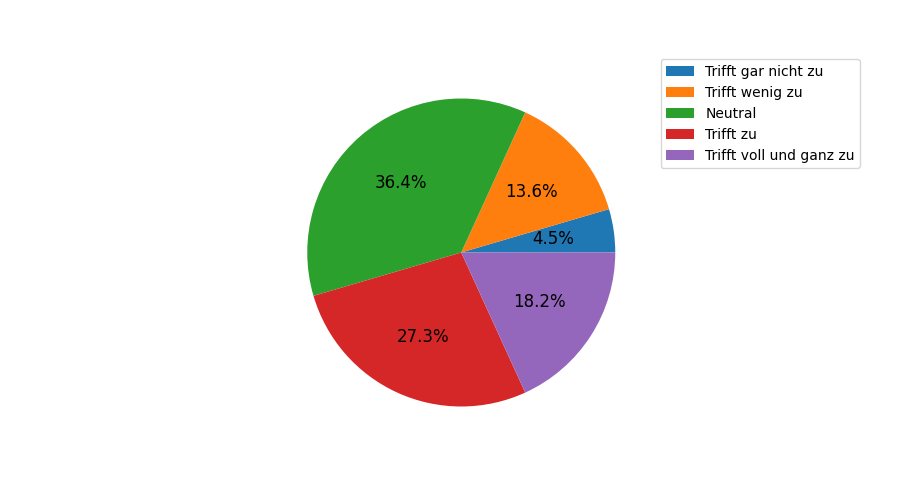
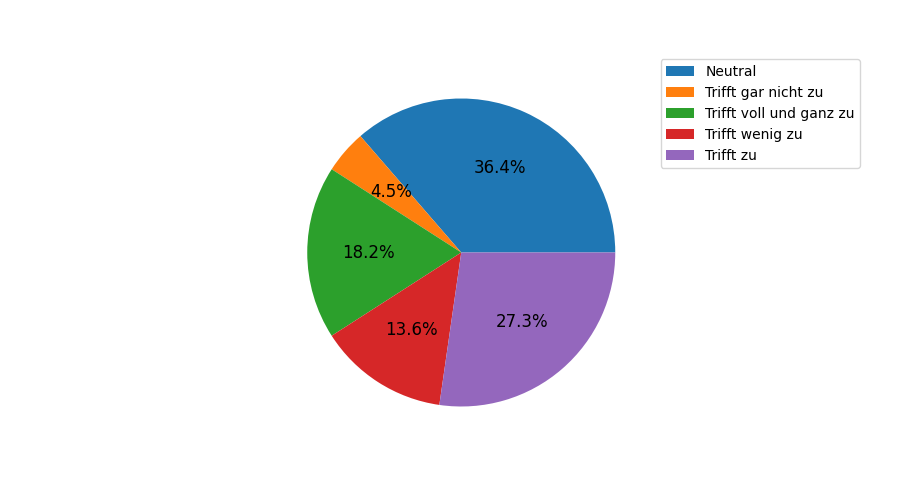
cleanup

Changed region(s): [[0.3422, 0.18, 0.6844, 0.84], [0.7778, 0.12, 0.9644, 0.33], [0.3733, 0.48, 0.4356, 0.51]]

diff --git a/main.py b/main.py
@@ -1,26 +1,13 @@
 import pandas as pd
 import matplotlib.pyplot as plt
 
-#column_names = ["id", "startTime", "finishTime", "email", "Q1", "Q2", "Q3", "Q4", "Q5", "Q6", "Q7", "Q8", "Q9", "Q10", "Q11", "Q12"]
-
 df = pd.read_excel("input.xlsx")
 df = df.dropna(axis=1, how='all')
-#df.columns = column_names
 
 labels = ["Trifft gar nicht zu", "Trifft wenig zu", "Neutral", "Trifft zu", "Trifft voll und ganz zu"]
-# For Questions 4-10: Assign a score to the answer group
-
-def label_function(val):
-    return f'{val / 100 * len(df):.0f}\n{val:.0f}%'
-
 
 for i in range(4,16):
-    if i==14:
-        plot = df.groupby(df.iloc[:,i]).size().reindex(labels).plot(kind='pie', figsize=(9, 5), labeldistance=None, autopct='%1.1f%%', textprops={'fontsize': 12})
-    else:
-        plot = df.groupby(df.iloc[:,i]).size().plot(kind='pie', figsize=(9, 5), labeldistance=None, autopct='%1.1f%%', textprops={'fontsize': 12})
-    #plot.title.set_size(10)
-    #plt.title(df.columns[i][:-1], wrap=True)
+    plot = df.groupby(df.iloc[:,i]).size().plot(kind='pie', figsize=(9, 5), labeldistance=None, autopct='%1.1f%%', textprops={'fontsize': 12})
     result_string = f"Q{i}.png"
     plot.legend(bbox_to_anchor=(1, 1.02), loc='upper left')
     plot.get_figure().savefig(result_string)
